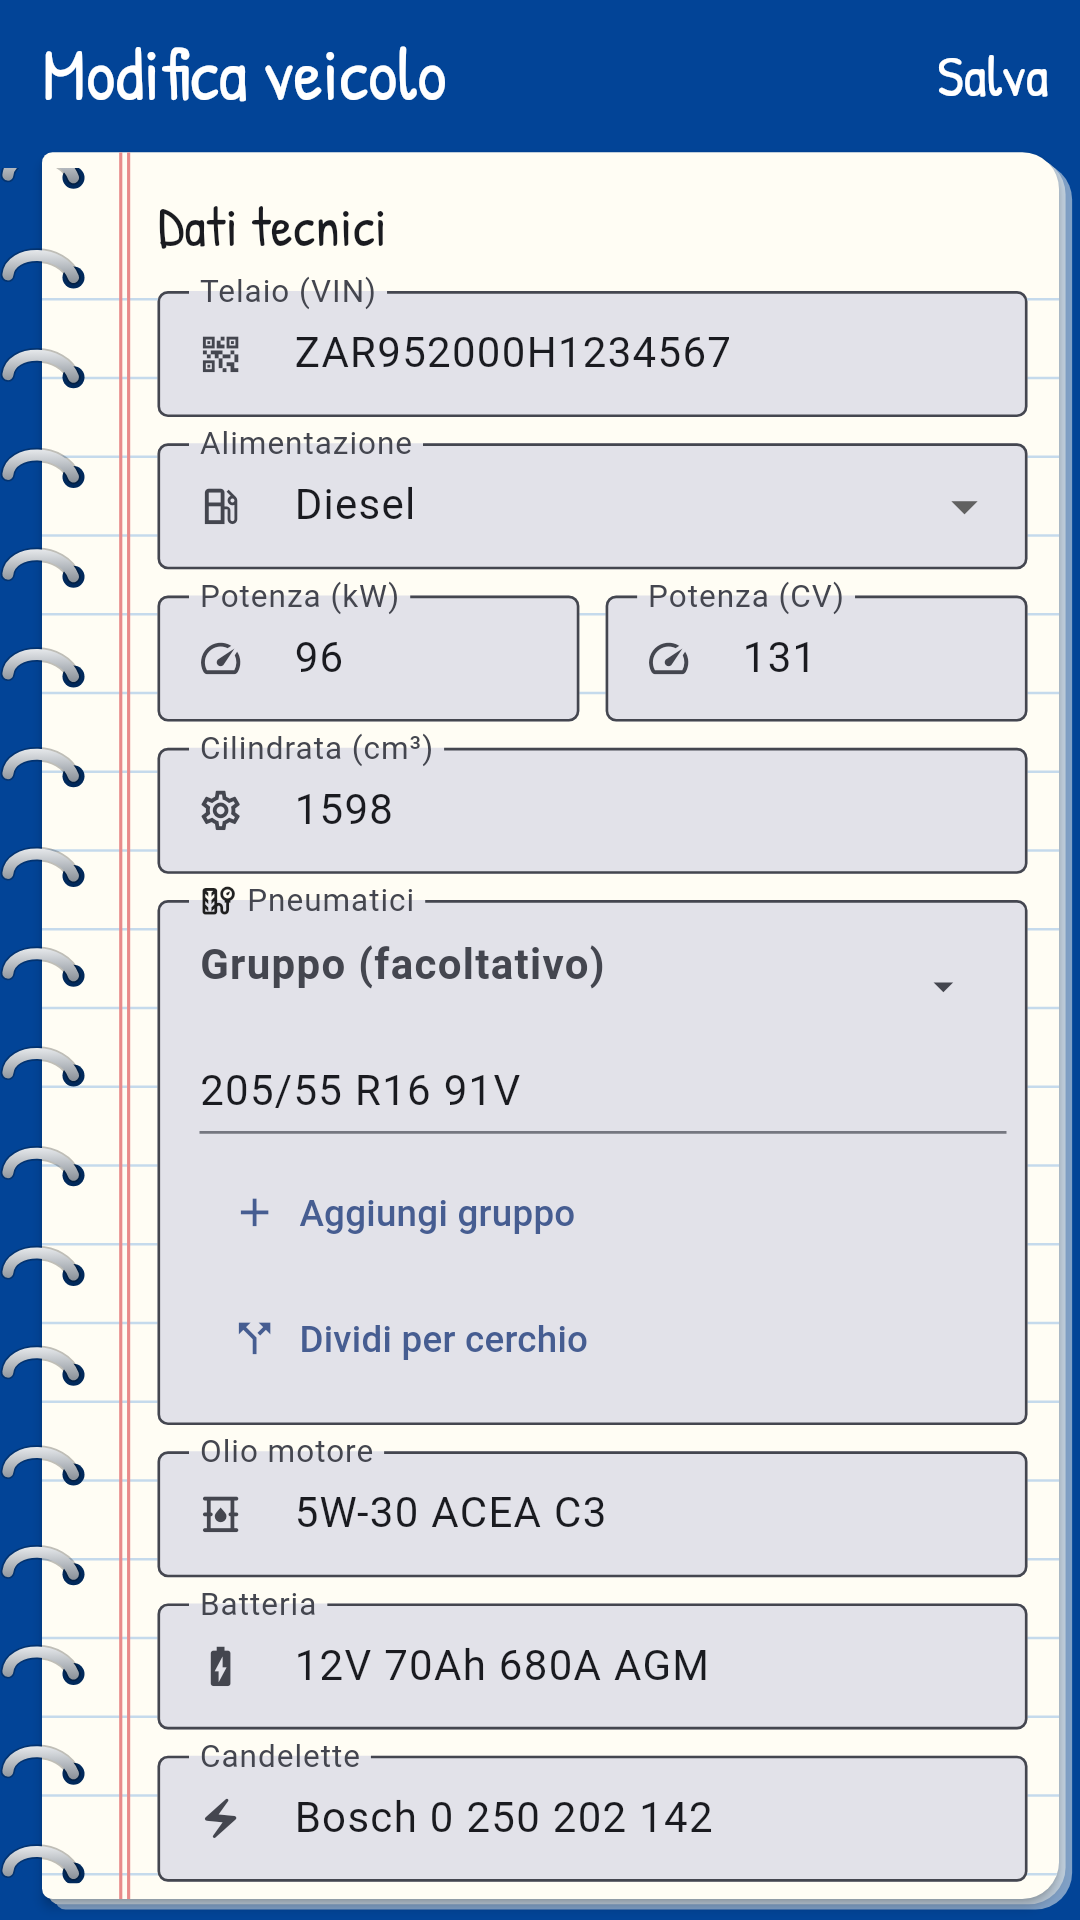
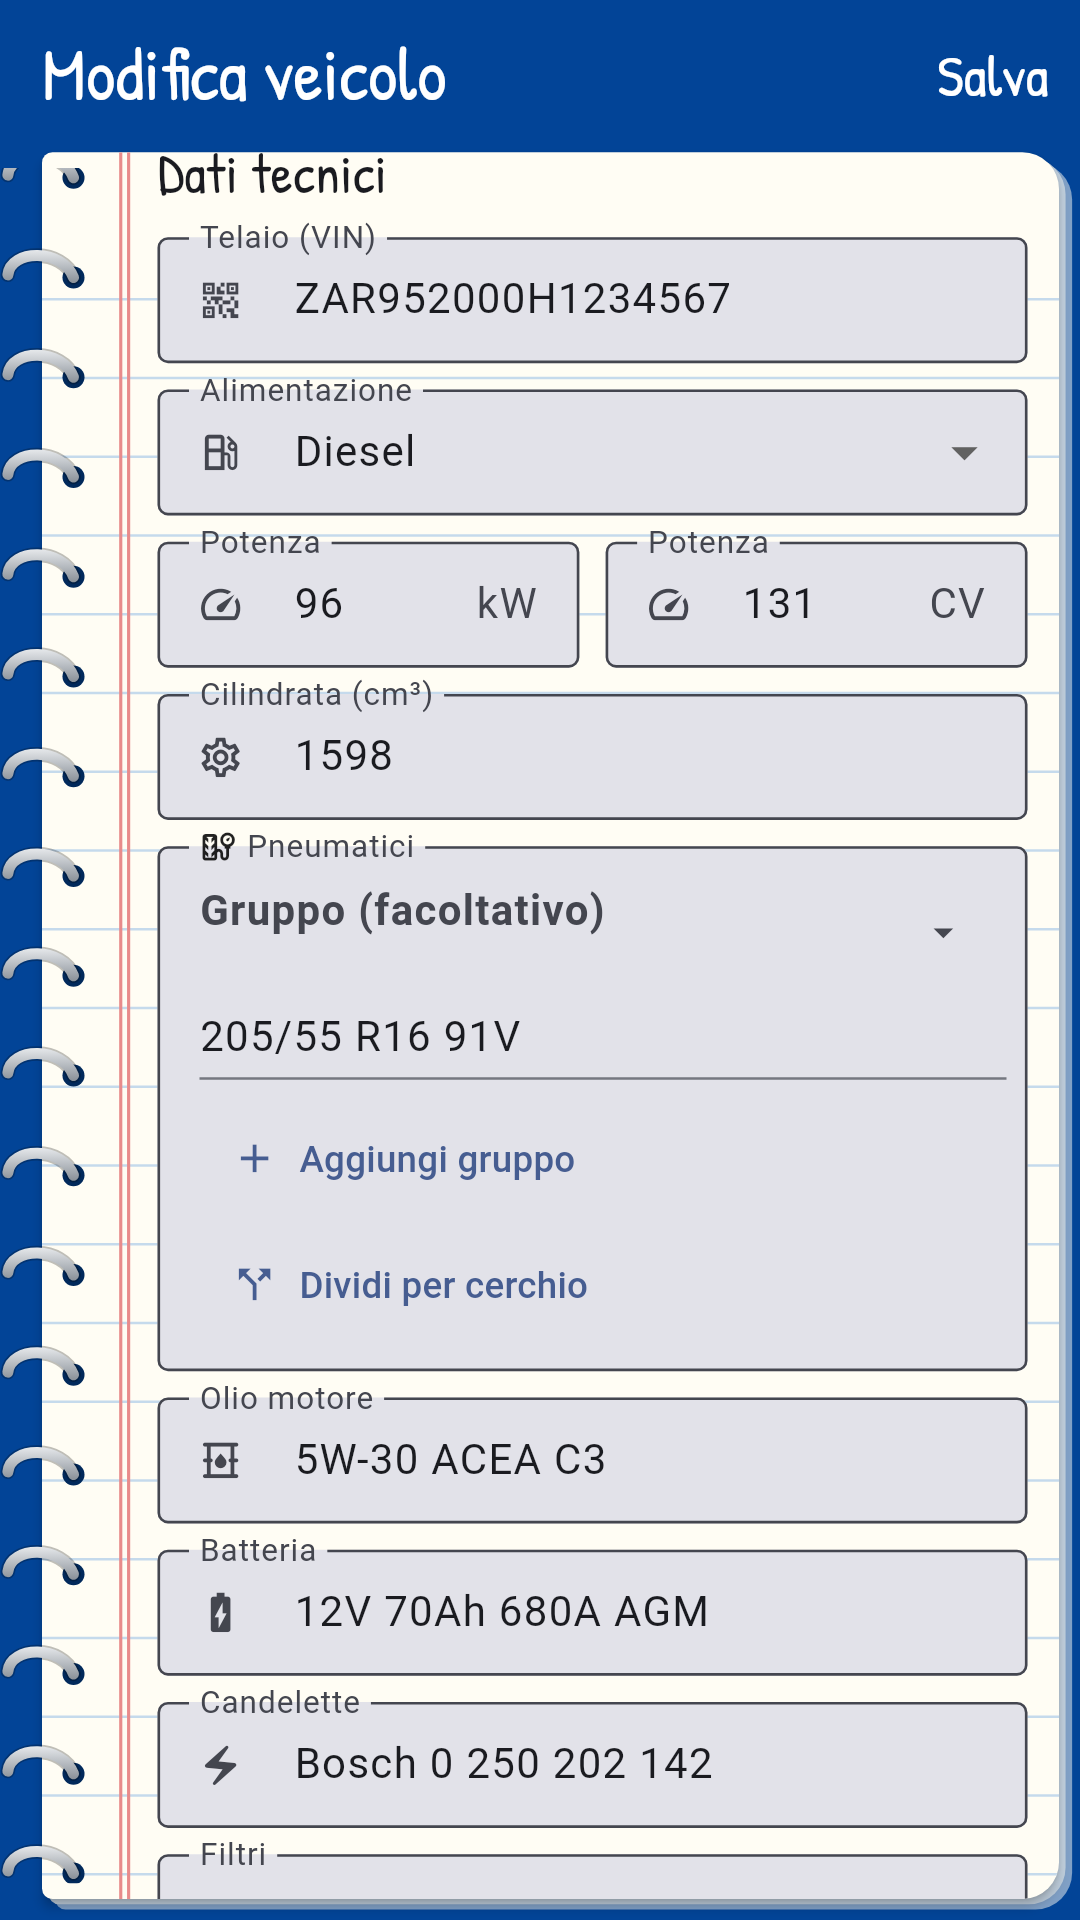
Unità di misura accanto al numero nei campi della potenza, origine delle segnalazioni aggiornata al nuovo sito, backlog della prossima versione
Claude-Session: https://claude.ai/code/session_01E5Mc5Y1Fn11ySByqYRH4WT

Changed region(s): [[0.1222, 0.0625, 0.9778, 1.0]]

diff --git a/lib/screens/vehicle_edit_screen.dart b/lib/screens/vehicle_edit_screen.dart
@@ -397,13 +397,13 @@ class _VehicleEditScreenState extends State<VehicleEditScreen> {
             ),
             Row(children: [
               Expanded(
-                child: _techField(_power, tr('tech.power'), Icons.speed,
-                    number: true, onChanged: (t) => _powerCv.text = kwToCvText(t)),
+                child: _techField(_power, tr('tech.powerName'), Icons.speed,
+                    number: true, suffix: 'kW', onChanged: (t) => _powerCv.text = kwToCvText(t)),
               ),
               const SizedBox(width: 10),
               Expanded(
-                child: _techField(_powerCv, tr('tech.powerCv'), Icons.speed,
-                    number: true, onChanged: (t) => _power.text = cvToKwText(t)),
+                child: _techField(_powerCv, tr('tech.powerName'), Icons.speed,
+                    number: true, suffix: tr('unit.cv'), onChanged: (t) => _power.text = cvToKwText(t)),
               ),
             ]),
             _techField(_cc, tr('tech.engine'), Icons.settings_outlined, number: true),
@@ -583,7 +583,12 @@ class _VehicleEditScreenState extends State<VehicleEditScreen> {
   }
 
   Widget _techField(TextEditingController c, String label, IconData icon,
-          {bool caps = false, bool number = false, String? hint, int lines = 1, ValueChanged<String>? onChanged}) =>
+          {bool caps = false,
+          bool number = false,
+          String? hint,
+          int lines = 1,
+          String? suffix,
+          ValueChanged<String>? onChanged}) =>
       Padding(
         padding: const EdgeInsets.only(bottom: 10),
         child: TextField(
@@ -596,6 +601,7 @@ class _VehicleEditScreenState extends State<VehicleEditScreen> {
           decoration: InputDecoration(
             labelText: label,
             hintText: hint,
+            suffixText: suffix,
             filled: true,
             isDense: true,
             border: const OutlineInputBorder(),

diff --git a/tool/screenshots/screenshots_test.dart b/tool/screenshots/screenshots_test.dart
@@ -211,9 +211,9 @@ void main() {
           await tester.drag(find.byType(ListView).first, const Offset(0, -520));
         });
         await shot(tester, VehicleEditScreen(vehicle: appState.vehicleById('g1')!.copy()), '06b_power', then: () async {
-          await tester.scrollUntilVisible(find.text(tr('tech.powerCv')), 300,
+          await tester.scrollUntilVisible(find.text(tr('unit.cv')), 300,
               scrollable: find.byType(Scrollable).first);
-          await Scrollable.ensureVisible(tester.element(find.text(tr('tech.powerCv'))), alignment: 0.25);
+          await Scrollable.ensureVisible(tester.element(find.text(tr('unit.cv'))), alignment: 0.25);
         });
         await shot(tester, const VehicleDetailScreen(vehicleId: 'g1'), '07_ocr', then: () async {
           final ctx = tester.element(find.byType(VehicleDetailScreen));

diff --git a/lib/services/support_service.dart b/lib/services/support_service.dart
@@ -51,7 +51,7 @@ class SupportService {
       final req = await client.postUrl(Uri.parse('https://formsubmit.co/ajax/$email'));
       req.headers.contentType = ContentType.json;
       req.headers.set(HttpHeaders.acceptHeader, 'application/json');
-      req.headers.set('Origin', 'https://viperonedodge.github.io');
+      req.headers.set('Origin', 'https://myfleetmanager-3ca03.web.app');
       req.headers.set('Referer', '$privacyUrl');
       req.write(jsonEncode({
         '_subject': subject,

diff --git a/BACKLOG.md b/BACKLOG.md
@@ -2,6 +2,11 @@
 
 Lavori rimandati, da fare prima di andare in produzione o in una versione successiva.
 
+## Prossima versione (2.1.7)
+- [x] Unità di misura dentro il campo, accanto al numero (kW, CV), con etichetta corta «Potenza».
+- [x] Segnalazioni allo sviluppatore (FormSubmit) inviate con il nuovo indirizzo del sito.
+- [ ] Durata della Pro con codice sviluppatore: oggi scade a ogni nuova versione. Da decidere: 30 giorni oppure finché non viene revocata.
+
 ## Prima di andare in produzione
 
 ### Sicurezza
